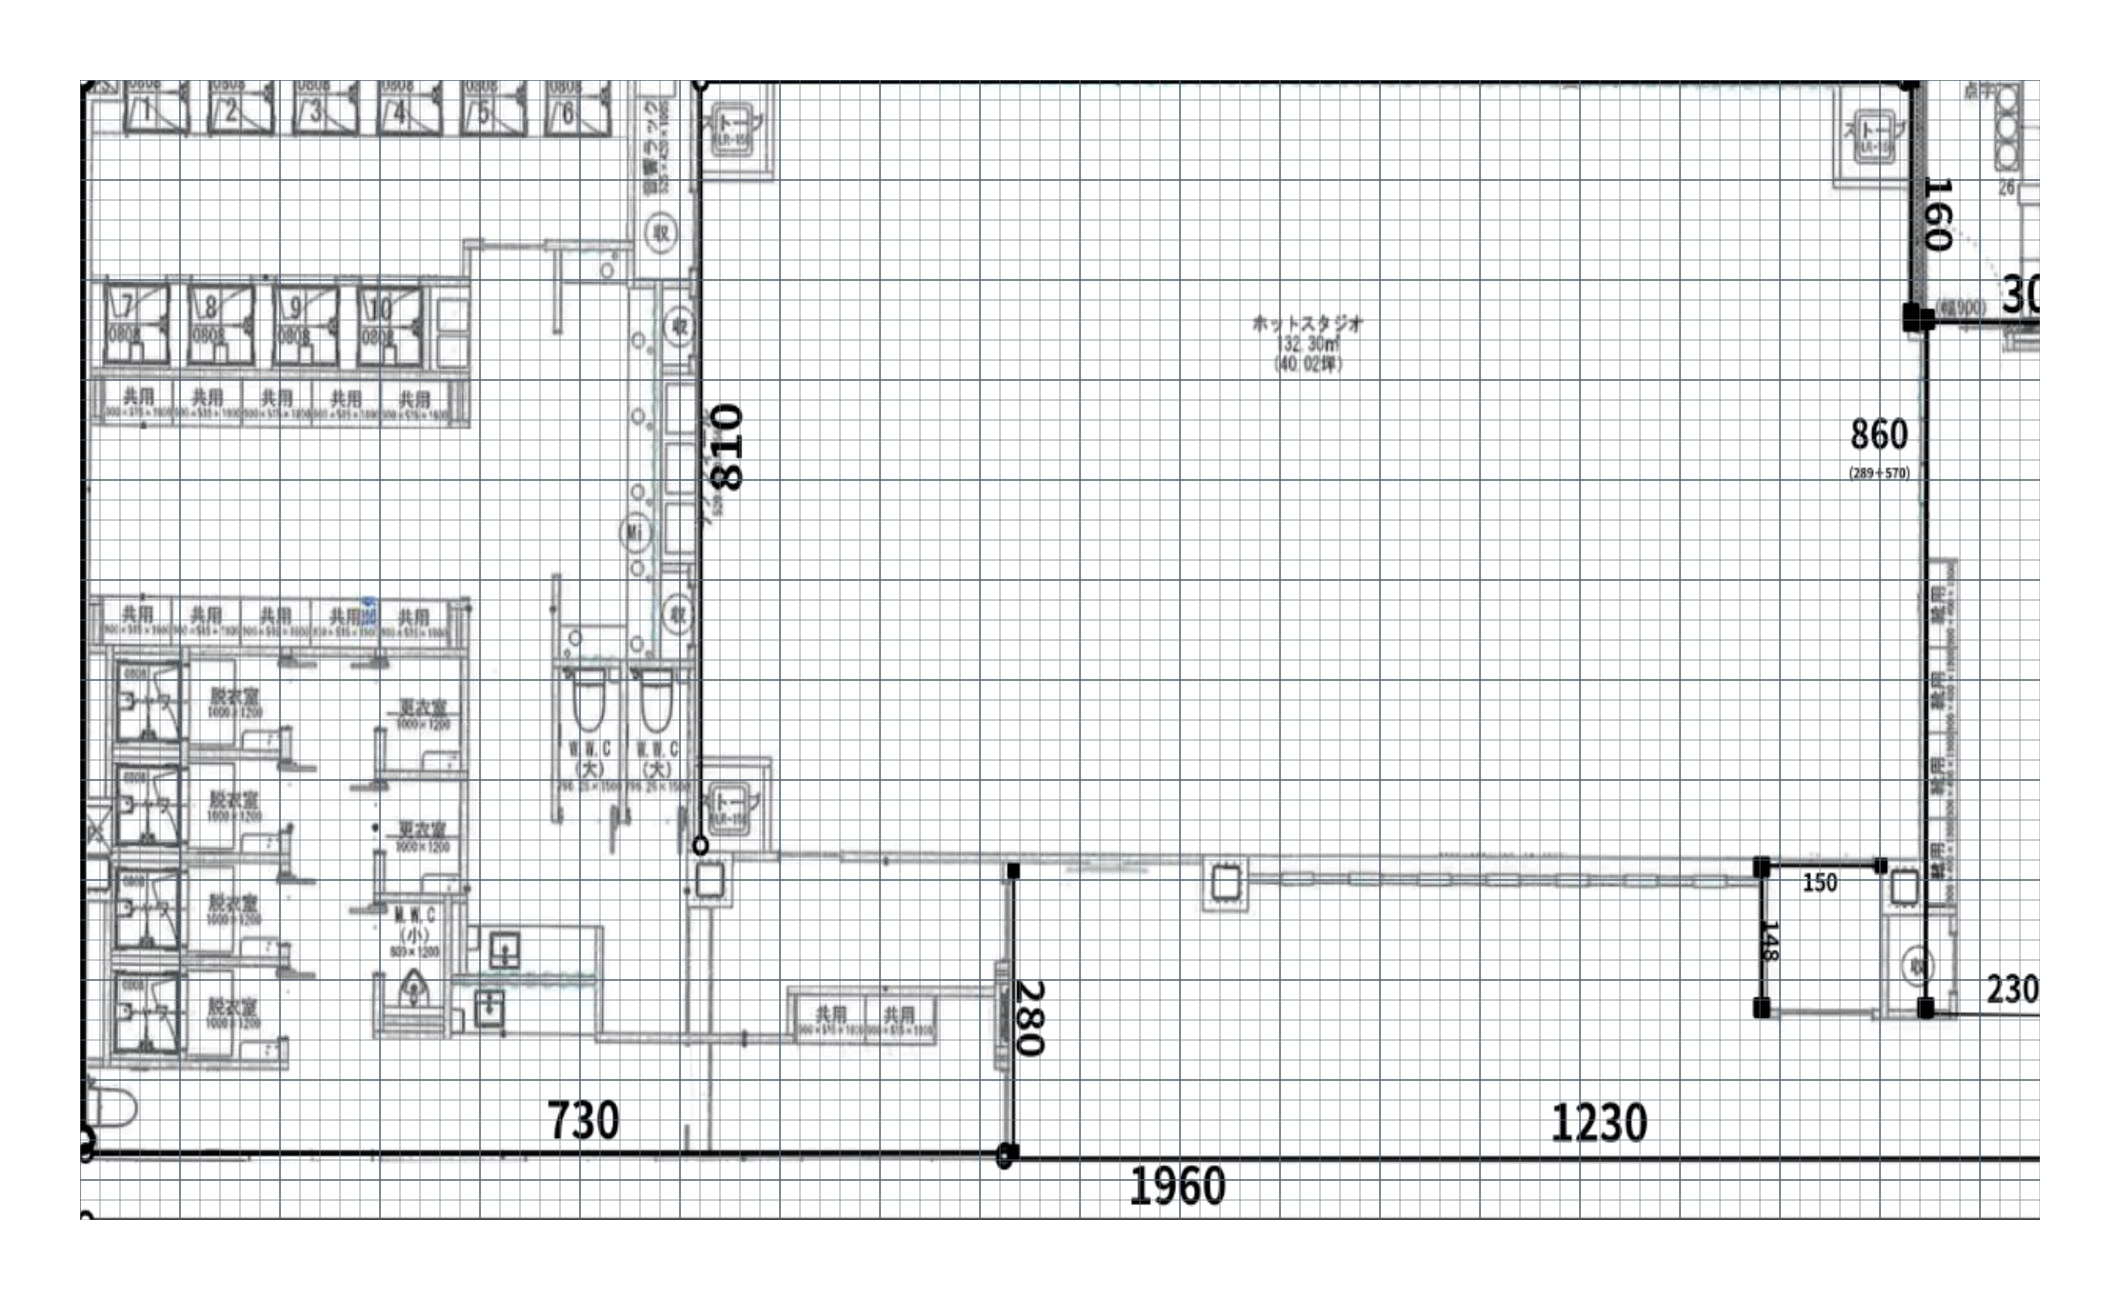
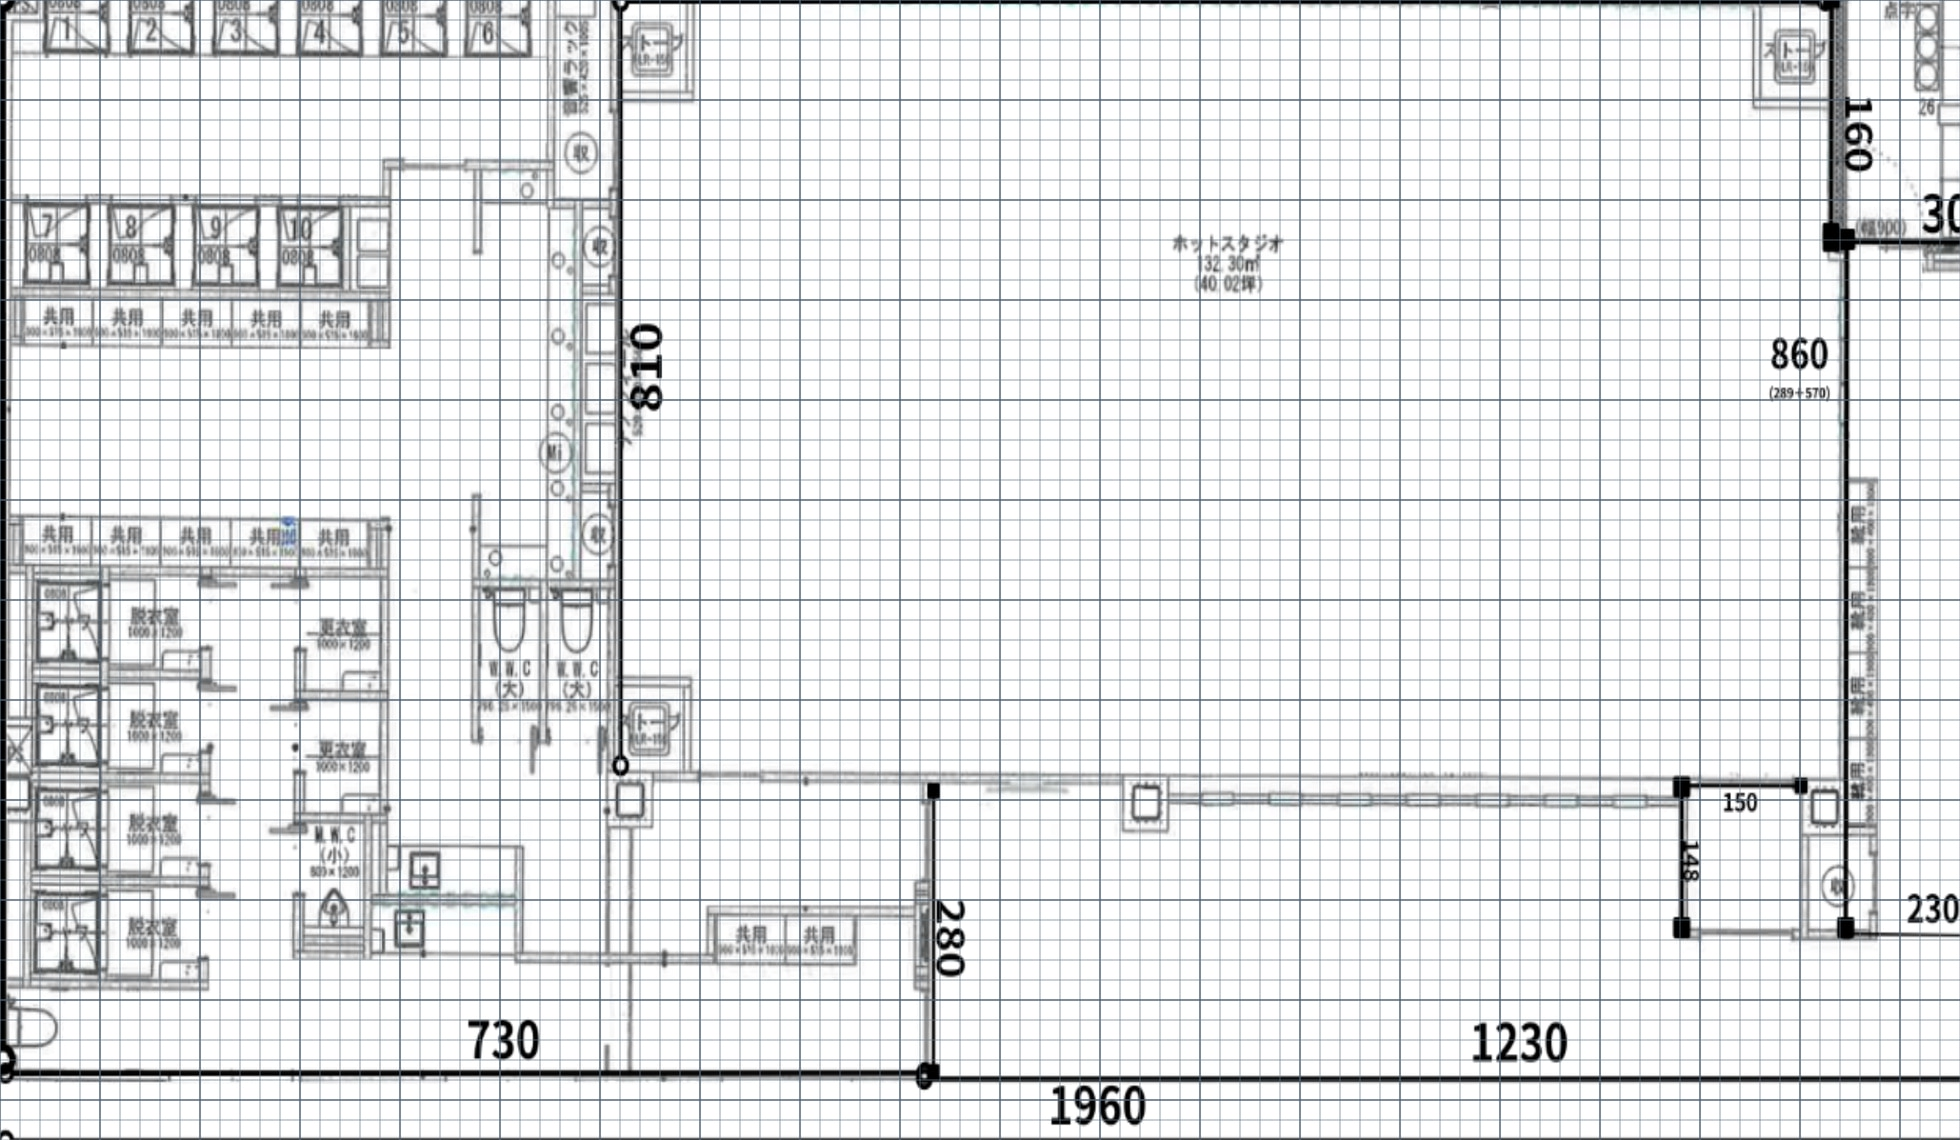
Fix 3F plan box to exact 1960x1140 at 1px/cm.

diff --git a/floorplan-app/app.js b/floorplan-app/app.js
@@ -11,13 +11,13 @@ const ROOMS = {
   },
   "kyodo-3f": {
     title: "経堂 3F",
-    // 図面表記 1960×1140cm + 周囲余白80cm（端が切れないように）
-    // 採寸後に合わせる場合はここを更新
-    w: 2120,
-    h: 1300,
+    // 図面表記どおり 1960×1140cm（20cmマス = 98×57）。縦横とも 1px=1cm
+    w: 1960,
+    h: 1140,
     floor: "../floorplan/floor_3f.jpg",
-    contentOrigin: { x: 80, y: 80 },
     labeledCm: { w: 1960, h: 1140 },
+    gridCm: 20,
+    gridCells: { w: 98, h: 57 },
   },
 };
 const DEFAULT_ROOM = "kyodo-2f";
@@ -27,7 +27,7 @@ const AUTHOR_KEY = "kyodo-floorplan-author";
 const PLACE_BASE = "../floorplan/machines/place/";
 const PREVIEW_BASE = "../floorplan/machines/preview/";
 /** 画像差し替え時にブラウザ/CDNキャッシュを切る */
-const ART_VER = "20260913m";
+const ART_VER = "20260913n";
 const CSV_URL = "../floorplan/machines.csv";
 const CATALOG_URL = "../floorplan/machines_catalog.json";
 const MACHINES_API = "/api/machines";
@@ -43,6 +43,10 @@ const ZONE_COLORS = [
   { id: "green", fill: "rgba(169,223,191,0.45)", chip: "#a9dfbf", name: "緑" },
   { id: "blue", fill: "rgba(174,214,241,0.45)", chip: "#aed6f1", name: "青" },
   { id: "gray", fill: "rgba(213,216,220,0.5)", chip: "#d5d8dc", name: "灰" },
+  { id: "lavender", fill: "rgba(210,180,230,0.45)", chip: "#d2b4e6", name: "紫" },
+  { id: "teal", fill: "rgba(130,210,210,0.45)", chip: "#82d2d2", name: "青緑" },
+  { id: "coral", fill: "rgba(245,160,150,0.45)", chip: "#f5a096", name: "赤" },
+  { id: "cream", fill: "rgba(250,240,210,0.5)", chip: "#faf0d2", name: "クリーム" },
 ];
 
 const state = {
@@ -223,7 +227,8 @@ function applyView() {
 
 function fitView() {
   const rect = el.viewport.getBoundingClientRect();
-  const pad = state.roomId === "kyodo-3f" ? 48 : 24;
+  // 図面ボックス（アスペクト固定）を崩さず、画面内に全体が入るよう余白を多めに取る
+  const pad = state.roomId === "kyodo-3f" ? 56 : 24;
   const sx = (rect.width - pad * 2) / PLAN_W;
   const sy = (rect.height - pad * 2) / PLAN_H;
   const scale = Math.max(0.05, Math.min(sx, sy));

diff --git a/api/room.js b/api/room.js
@@ -3,7 +3,7 @@ import { put, list } from "@vercel/blob";
 const MAX_HISTORY = 40;
 const PLANS = {
   "kyodo-2f": { w: 3388, h: 2058, pxPerCm: 1 },
-  "kyodo-3f": { w: 2120, h: 1300, pxPerCm: 1 },
+  "kyodo-3f": { w: 1960, h: 1140, pxPerCm: 1 },
 };
 
 function planFor(roomId) {
